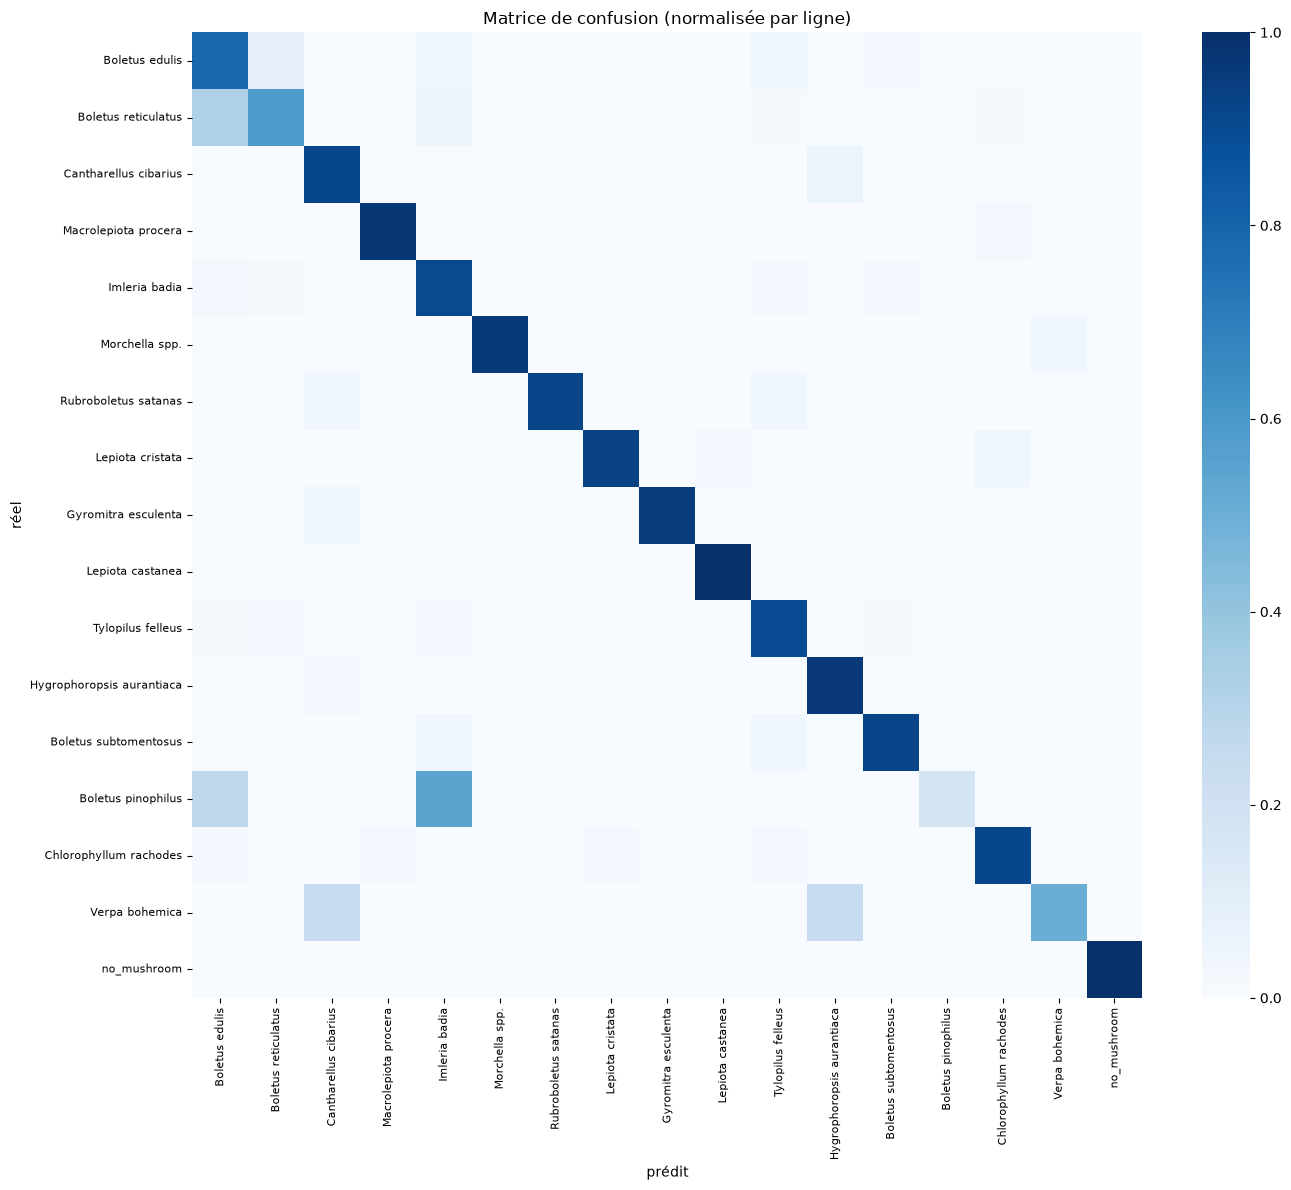
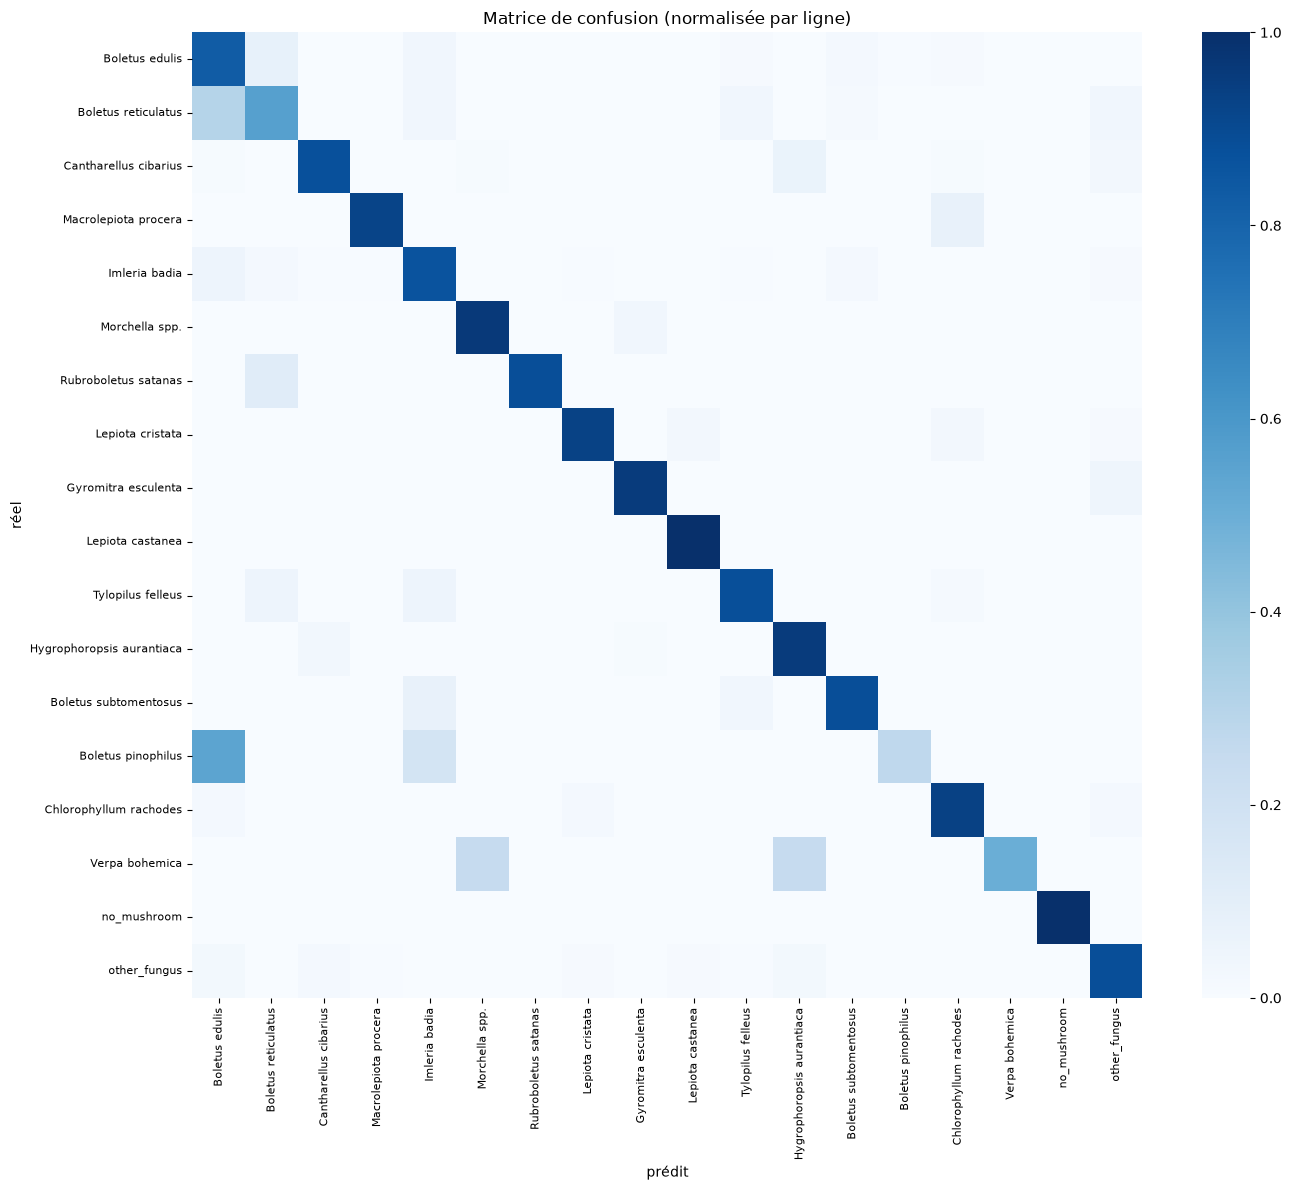
ajouts d'autres champi différents de nos target, train pour les classer dans une autre classe à part -> other champi

diff --git a/src/champiquest/vision/decision.py b/src/champiquest/vision/decision.py
@@ -3,14 +3,14 @@
 Responsabilités :
 - **temperature scaling** : calibrer les probabilités sur un split de validation dédié ;
 - **matrice de coût** : coût(prédire comestible | vrai toxique/mortel) ≫ coût(prédire
-  toxique | vrai comestible) ;
+  toxique | vrai comestible) ; idem pour « autre champignon » prédit comestible ;
 - **décision bayésienne** : prédire la classe qui minimise le coût attendu
   `Σ_y P(y|x)·coût(c, y)` ;
 - **abstention** : si la confiance (max P) est trop faible, ne pas répondre.
 
-Flux final (partagé avec `predict.py`) :
-1. si la classe « pas de champi » domine → rejet ;
-2. sinon → décision espèce : comestible / dangereux / neutre, ou abstention.
+Catégories de sortie : no_mushroom, other_fungus, edible, dangerous, neutral, abstain.
+Les deux classes de rejet (no_mushroom, other_fungus) n'émettent jamais d'avis de
+comestibilité.
 """
 from __future__ import annotations
 
@@ -21,6 +21,7 @@ EDIBLE = "comestible"
 DANGEROUS = {"toxique", "mortel"}
 NEUTRAL = "non_toxique"
 NONE = "no_mushroom"
+OTHER = "other_fungus"
 
 
 def calibrate_temperature(logits: np.ndarray, labels: np.ndarray) -> float:
@@ -42,9 +43,11 @@ def calibrate_temperature(logits: np.ndarray, labels: np.ndarray) -> float:
     return float(res.x)
 
 
-def _category(idx: int, no_mushroom_idx: int, danger_of: dict, classes: list) -> str:
+def _category(idx: int, no_mushroom_idx: int, other_fungus_idx: int, danger_of: dict, classes: list) -> str:
     if idx == no_mushroom_idx:
         return NONE
+    if idx == other_fungus_idx:
+        return OTHER
     d = danger_of[classes[idx]]
     if d == EDIBLE:
         return EDIBLE
@@ -57,6 +60,7 @@ def build_cost_matrix(
     classes: list[str],
     danger_of: dict[str, str],
     no_mushroom_idx: int,
+    other_fungus_idx: int,
     cost_edible_as_toxic: float = 10.0,
     cost_toxic_as_edible: float = 1.0,
 ) -> np.ndarray:
@@ -64,33 +68,40 @@ def build_cost_matrix(
 
     Coûts clés :
     - comestible prédit / toxique réel = 10 (l'erreur fatale) ;
-    - neutre prédit / toxique réel = 8 (dire « inoffensif » alors que mortel) ;
+    - comestible prédit / autre champignon réel = 8 (un intrus peut être toxique) ;
+    - neutre prédit / toxique réel = 8 ;
     - comestible prédit / neutre réel = 3 ;
-    - toxique prédit / comestible réel = 1 (fausse alerte, sans danger) ;
-    - erreurs au sein d'une même catégorie = 1 ;
+    - toxique prédit / comestible réel = 1 (fausse alerte) ;
+    - prédire un rejet (no_mushroom/other_fungus) sur une espèce = 1 (faux rejet) ;
     - correct = 0.
     """
-    n = len(classes) + 1
+    n = len(classes) + 2
     C = np.ones((n, n))
     np.fill_diagonal(C, 0.0)
     for c in range(n):
         for y in range(n):
             if c == y:
                 continue
-            cc = _category(c, no_mushroom_idx, danger_of, classes)
-            cy = _category(y, no_mushroom_idx, danger_of, classes)
+            cc = _category(c, no_mushroom_idx, other_fungus_idx, danger_of, classes)
+            cy = _category(y, no_mushroom_idx, other_fungus_idx, danger_of, classes)
             if cc == EDIBLE and cy == "dangerous":
                 C[c, y] = cost_edible_as_toxic
-            elif cc == NEUTRAL and cy == "dangerous":
+            elif cc == EDIBLE and cy == OTHER:
                 C[c, y] = 8.0
             elif cc == EDIBLE and cy == NEUTRAL:
                 C[c, y] = 3.0
+            elif cc == NEUTRAL and cy == "dangerous":
+                C[c, y] = 8.0
             elif cc == "dangerous" and cy == EDIBLE:
                 C[c, y] = cost_toxic_as_edible
             elif cc == "dangerous" and cy == NEUTRAL:
                 C[c, y] = 2.0
             elif cc == EDIBLE and cy == NONE:
                 C[c, y] = 2.0
+            elif cc in (NONE, OTHER) and cy in (EDIBLE, "dangerous", NEUTRAL):
+                C[c, y] = 1.0  # faux rejet
+            elif cc in (NONE, OTHER) and cy in (NONE, OTHER):
+                C[c, y] = 1.0
             else:
                 C[c, y] = 1.0
     return C
@@ -104,6 +115,7 @@ class CostDecision:
         classes: list[str],
         danger_of: dict[str, str],
         no_mushroom_idx: int,
+        other_fungus_idx: int,
         cost_edible_as_toxic: float = 10.0,
         cost_toxic_as_edible: float = 1.0,
         abstain_threshold: float = 0.6,
@@ -111,8 +123,9 @@ class CostDecision:
         self.classes = classes
         self.danger_of = danger_of
         self.no_mushroom_idx = no_mushroom_idx
+        self.other_fungus_idx = other_fungus_idx
         self.cost = build_cost_matrix(
-            classes, danger_of, no_mushroom_idx, cost_edible_as_toxic, cost_toxic_as_edible
+            classes, danger_of, no_mushroom_idx, other_fungus_idx, cost_edible_as_toxic, cost_toxic_as_edible
         )
         self.abstain_threshold = abstain_threshold
 
@@ -128,9 +141,15 @@ class CostDecision:
             }
         expected_cost = probs @ self.cost.T  # (C,) = Σ_y P(y)·C(c, y)
         c = int(np.argmin(expected_cost))
-        cat = _category(c, self.no_mushroom_idx, self.danger_of, self.classes)
-        decision = "no_mushroom" if cat == NONE else ("edible" if cat == EDIBLE else ("dangerous" if cat == "dangerous" else "neutral"))
-        name = "no_mushroom" if c == self.no_mushroom_idx else self.classes[c]
+        cat = _category(c, self.no_mushroom_idx, self.other_fungus_idx, self.danger_of, self.classes)
+        decision = {
+            NONE: "no_mushroom",
+            OTHER: "other_fungus",
+            EDIBLE: "edible",
+            "dangerous": "dangerous",
+            NEUTRAL: "neutral",
+        }[cat]
+        name = "no_mushroom" if c == self.no_mushroom_idx else ("other_fungus" if c == self.other_fungus_idx else self.classes[c])
         return {
             "decision": decision,
             "predicted_idx": c,

diff --git a/src/champiquest/vision/datasets.py b/src/champiquest/vision/datasets.py
@@ -27,9 +27,11 @@ REPO = Path(__file__).resolve().parents[3]
 DF20_IMG_DIR = REPO / "data" / "raw" / "df20" / "extracted_300px"
 METADATA_CSV = REPO / "data" / "raw" / "df20" / "our_classes_metadata.csv"
 NEGATIVES_MANIFEST = REPO / "data" / "raw" / "coco" / "negatives_manifest.txt"
+OTHER_FUNGUS_MANIFEST = REPO / "data" / "raw" / "df20" / "other_fungus_paths.txt"
 CONFIG_PATH = REPO / "configs" / "vision.yaml"
 
 NO_MUSHROOM = "no_mushroom"
+OTHER_FUNGUS = "other_fungus"
 IMAGENET_MEAN = [0.485, 0.456, 0.406]
 IMAGENET_STD = [0.229, 0.224, 0.225]
 
@@ -55,6 +57,12 @@ def load_classes(config: dict | None = None) -> tuple[list[str], dict[str, int],
     label_to_idx = {c: i for i, c in enumerate(classes)}
     label_to_danger = {c["name"]: c["danger"] for c in config["classes"]}
     return classes, label_to_idx, label_to_danger
+
+
+def n_classes_total(config: dict | None = None) -> int:
+    """Nombre total de sorties : espèces + no_mushroom + other_fungus."""
+    classes, _, _ = load_classes(config)
+    return len(classes) + 2
 
 
 def load_metadata() -> pd.DataFrame:
@@ -135,8 +143,30 @@ def build_splits(
         )
     neg_df = pd.DataFrame(neg_rows)
 
+    # autres champignons courants (hors cibles) : répartition aléatoire par image
+    other_files = [p.strip() for p in open(OTHER_FUNGUS_MANIFEST) if p.strip()]
+    rng = np.random.default_rng(seed + 1)
+    rng.shuffle(other_files)
+    n = len(other_files)
+    n_test = max(1, round(n * test_frac))
+    n_val = max(1, round(n * val_frac))
+    other_rows = []
+    for i, f in enumerate(other_files):
+        split = "test" if i < n_test else "val" if i < n_test + n_val else "train"
+        other_rows.append(
+            {
+                "file": str(DF20_IMG_DIR / f.lower()),  # .JPG → .jpg
+                "label_idx": len(classes) + 1,  # index « autre champignon »
+                "gbifID": f"other_{i}",
+                "class_label": OTHER_FUNGUS,
+                "danger": "other",
+                "split": split,
+            }
+        )
+    other_df = pd.DataFrame(other_rows)
+
     cols = ["file", "label_idx", "gbifID", "class_label", "danger", "split"]
-    full = pd.concat([df[cols], neg_df[cols]], ignore_index=True)
+    full = pd.concat([df[cols], neg_df[cols], other_df[cols]], ignore_index=True)
     train_df = full[full["split"] == "train"].reset_index(drop=True)
     val_df = full[full["split"] == "val"].reset_index(drop=True)
     test_df = full[full["split"] == "test"].reset_index(drop=True)
@@ -214,7 +244,7 @@ if __name__ == "__main__":
 
     config = load_config()
     classes, label_to_idx, label_to_danger = load_classes(config)
-    print(f"classes : {len(classes)} + 1 ('{NO_MUSHROOM}') = {len(classes) + 1} sorties")
+    print(f"classes : {len(classes)} + 2 ('{NO_MUSHROOM}', '{OTHER_FUNGUS}') = {n_classes_total(config)} sorties")
 
     train_df, val_df, test_df = build_splits(config=config)
     check_no_leakage(train_df, val_df, test_df)

diff --git a/src/champiquest/vision/evaluate.py b/src/champiquest/vision/evaluate.py
@@ -110,7 +110,7 @@ def main() -> None:
     config = ckpt["config"]
     classes: list[str] = ckpt["classes"]
     danger_of: dict[str, str] = ckpt["danger"]
-    num_classes = len(classes) + 1
+    num_classes = len(classes) + 2
 
     _, val_dl, test_dl, _ = datasets.build_dataloaders(
         config=config, seed=config["train"]["seed"]
@@ -131,11 +131,14 @@ def main() -> None:
 
     edible_idx = {i for i, c in enumerate(classes) if danger_of[c] == "comestible"}
     dangerous_idx = {i for i, c in enumerate(classes) if danger_of[c] in ("toxique", "mortel")}
+    no_mushroom_idx = len(classes)
+    other_fungus_idx = len(classes) + 1
 
     dec = CostDecision(
         classes,
         danger_of,
-        no_mushroom_idx=num_classes - 1,
+        no_mushroom_idx=no_mushroom_idx,
+        other_fungus_idx=other_fungus_idx,
         cost_edible_as_toxic=config["decision"]["cost_edible_as_toxic"],
         cost_toxic_as_edible=config["decision"]["cost_toxic_as_edible"],
         abstain_threshold=config["decision"]["abstain_threshold"],
@@ -149,7 +152,12 @@ def main() -> None:
     err_cost = float((edible_claim & dangerous_actual).sum()) / max(1, dangerous_actual.sum())
     n_abstain = sum(1 for d in decisions if d["decision"] == "abstain")
 
-    class_names = classes + ["no_mushroom"]
+    # monde ouvert : champignon étranger prédit comestible (argmax vs coût)
+    other_actual = test_labels == other_fungus_idx
+    other_as_edible_raw = float((other_actual & np.isin(y_pred_raw, list(edible_idx))).sum()) / max(1, other_actual.sum())
+    other_as_edible_cost = float((other_actual & edible_claim).sum()) / max(1, other_actual.sum())
+
+    class_names = classes + ["no_mushroom", "other_fungus"]
 
     # graphes
     fig_cm = plot_confusion_matrix(test_labels, y_pred_raw, class_names)
@@ -167,6 +175,8 @@ def main() -> None:
                 "dangerous_error_argmax": err_raw,
                 "dangerous_error_cost": err_cost,
                 "n_abstain": n_abstain,
+                "other_as_edible_argmax": other_as_edible_raw,
+                "other_as_edible_cost": other_as_edible_cost,
             }
         )
         mlflow.log_figure(fig_cm, "confusion_matrix.png")
@@ -175,6 +185,8 @@ def main() -> None:
     print(f"\ntest acc {acc:.3f} | macro-F1 {f1:.3f} | abstentions {n_abstain}/{len(test_labels)}")
     print(f"erreur dangereuse (argmax) : {err_raw:.3f}")
     print(f"erreur dangereuse (coût)   : {err_cost:.3f}")
+    print(f"champignon étranger → comestible (argmax) : {other_as_edible_raw:.3f}")
+    print(f"champignon étranger → comestible (coût)   : {other_as_edible_cost:.3f}")
     print(f"graphes : {REPORTS_DIR / 'partie2_confusion_matrix.png'} + per_class_metrics")
 
 

diff --git a/src/champiquest/vision/train.py b/src/champiquest/vision/train.py
@@ -83,7 +83,7 @@ def train(config, epochs, lr, batch_size, backbone, input_size, device, seed):
         batch_size=batch_size, input_size=input_size, seed=seed, config=config
     )
     classes, label_to_idx, label_to_danger = datasets.load_classes(config)
-    num_classes = len(classes) + 1  # + « pas de champi »
+    num_classes = datasets.n_classes_total(config)  # espèces + no_mushroom + other_fungus
 
     model = models.build_model(backbone, num_classes=num_classes, pretrained=True).to(device)
 

diff --git a/reports/partie-2-reconnaissance-image.md b/reports/partie-2-reconnaissance-image.md
@@ -230,23 +230,28 @@ de la partie 1.
 - Set classifier multi-vue : stretch ou non ?
 - Auto-reconnaissance de vue (CLIP) : stretch ou non ?
 
-## 16. Résultats (premier entraînement complet)
+## 16. Résultats (modèle final : 18 classes avec other_fungus)
 
 ConvNeXt-Base (384px), 20 epochs, AdamW lr 1e-4, batch 32, AMP, poids de classe.
+18 sorties : 16 espèces + `no_mushroom` (COCO) + `other_fungus` (980 champignons courants).
 
 | Métrique | Valeur |
 |---|---|
-| test accuracy | **0.896** |
+| test accuracy | 0.886 |
 | test macro-F1 | **0.847** |
-| température calibrée | 1.426 (sur-confiance → adoucissement) |
-| abstentions | 74/1073 (6,9 %) |
-| erreur dangereuse (argmax) | 1,4 % |
-| erreur dangereuse (coût) | **0,0 %** |
+| température calibrée | 1.440 (sur-confiance → adoucissement) |
+| abstentions | 94/1220 (7,7 %) |
+| erreur dangereuse (argmax → coût) | 2,1 % → **0,0 %** |
+| champignon étranger → comestible (argmax → coût) | 5,4 % → **0,0 %** |
 
 **Confusions principales (bénignes)** : cèpes ↔ bolet bai ↔ bolet amer ↔ bolet
-subtomenteux ; girolle ↔ fausse girolle. Les 2 confusions dangereuses
-(*Gyromitra esculenta* et *Rubroboletus satanas* → girolle) sont **éliminées par la
-matrice de coût** (d'où 0,0 %).
+subtomenteux ; girolle ↔ fausse girolle. La classe `other_fungus` + la matrice de coût
+éliminent à la fois les toxiques prédits comestibles ET les champignons étrangers prédits
+comestibles (0,0 %).
+
+**Ajout clé** (validé par l'utilisateur) : la classe `other_fungus` (980 images, 35 genres
+courants hors de nos cibles) résout le problème du « monde fermé » — sans elle, ~5,4 % des
+champignons étrangers étaient annoncés comestibles.
 
 Graphes : `reports/partie2_confusion_matrix.png`, `partie2_per_class_metrics.png`,
 `partie2_training_curves.png` (aussi loggés dans MLflow).
